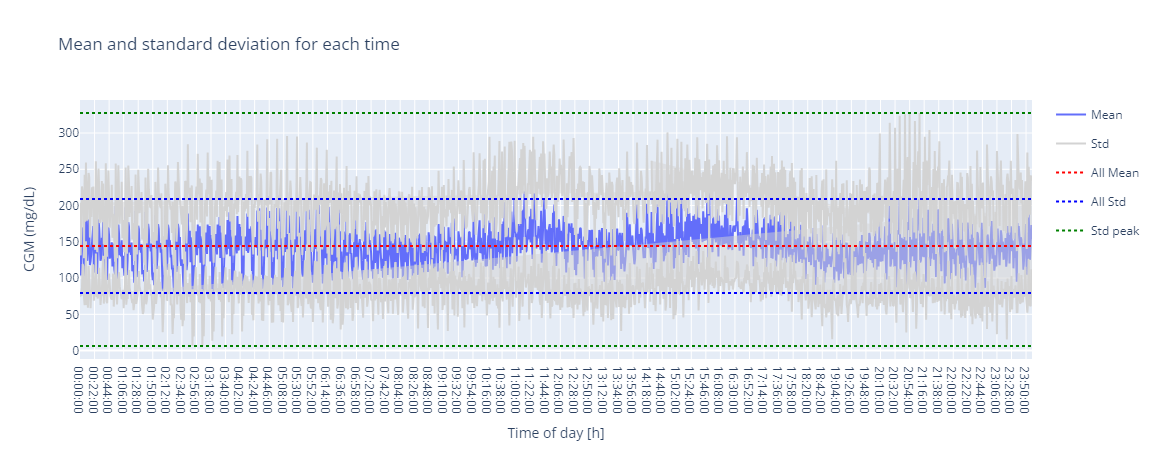
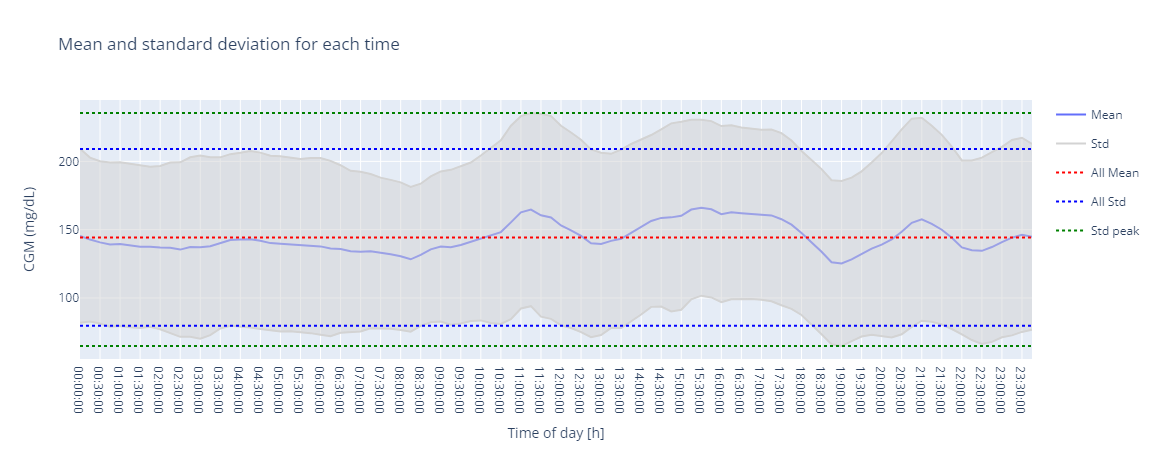
mean plot fix for non consistent timestamps datasets

diff --git a/glucopy/plot/trace/mean.py b/glucopy/plot/trace/mean.py
@@ -10,11 +10,10 @@ def mean(gf: Gframe,
          add_all_std: bool = True,
          add_std_peak: bool = True,
          add_quartiles: bool = False,
-         min_time_data: int = 0,
          height: float = None,
          width: float = None):
     '''
-    Plots a line plot of the CGM values in the Gframe object
+    Plots a line plot of the mean and standard deviation of fixed intervals of 15 minutes
 
     Parameters
     ----------
@@ -28,8 +27,6 @@ def mean(gf: Gframe,
         If True, the peaks of standard deviation will be added to the plot
     add_quartiles : bool, default False
         If True, the quartiles of the data will be added to the plot
-    min_time_data : int, default 0
-        Minimum number of data points for each time to be considered in the Gframe, if 0, all the data will be considered
     height : float, default None
         Height of the plot
     width : float, default None
@@ -42,57 +39,51 @@ def mean(gf: Gframe,
 
     Examples
     --------
-    Plot the mean and standard deviation for each time of day, the problem with the example data is that has 112 days
-    and data for every minute of the day, so the plot is not very useful, but after filtering the data, the plot is
-    more useful
+    Plot the mean and standard deviation of each interval of 15 minutes (default)
 
     .. ipython:: python
 
         import glucopy as gp
-        gf = gp.data()
+        gf = gp.data('prueba_1')
         gp.plot.mean(gf)
 
     .. image:: /../img/mean_plot_1.png
-        :alt: Mean plot
+        :alt: Mean and std plot
         :align: center
     .. raw:: html
-        
+
         <br>
 
-    Plot the mean and standard deviation for each time of day, but filtering the data to only include times with at
-    least 10 data points
+    It is posible to add the quartiles of the intervals
 
     .. ipython:: python
-    
-        gp.plot.mean(gf, min_time_data=10)
+
+        gp.plot.mean(gf, add_quartiles=True)
 
     .. image:: /../img/mean_plot_2.png
-        :alt: Mean plot with filtered data
+        :alt: Mean and std plot with quartiles
         :align: center
-    .. raw:: html
-    
-        <br>
-
-    The resulting plot is more useful, but the problem is that the data is not evenly distributed, but it should work
-    fine for Datasets with more evenly distributed data
     '''
     # Check input
     if not isinstance(gf, Gframe):
         raise TypeError('gf must be a Gframe object')
-    if min_time_data is not None:
-        if not isinstance(min_time_data, int):
-            raise TypeError('min_time_data must be an integer')
-        if min_time_data < 0:
-            raise ValueError('min_time_data must be greater than 0')
     
-    # Group the data by time
-    time_groups = gf.data.groupby('Time')
-    # print a list with the len of each group\
+    # Create a copy of the data
+    data_copy = gf.data.copy()
 
-    # Filter the data
-    if min_time_data != 0:
-        time_groups = time_groups.filter(lambda x: len(x) >= min_time_data)
-        time_groups = time_groups.groupby('Time')
+    # Extract the time from the 'Timestamp' column and floor to 15-minute intervals
+    data_copy['Interval'] = data_copy['Timestamp'].dt.floor('15Min').dt.time
+
+    # Group the data by the 15-minute intervals
+    time_groups = data_copy.groupby('Interval')
+
+    # Check if time_groups is empty
+    if len(time_groups) == 0:
+        raise ValueError('All time groups have less than min_time_data data points')
+
+    # Get the mean and std
+    mean_list = time_groups['CGM'].mean()
+    std_list = time_groups['CGM'].std()
 
     # Check if time_groups is empty
     if len(time_groups) == 0:

diff --git a/docs/source/api/glucopy.data.rst b/docs/source/api/glucopy.data.rst
@@ -1,0 +1,6 @@
+glucopy.data
+============
+
+.. currentmodule:: glucopy
+
+.. autofunction:: data
